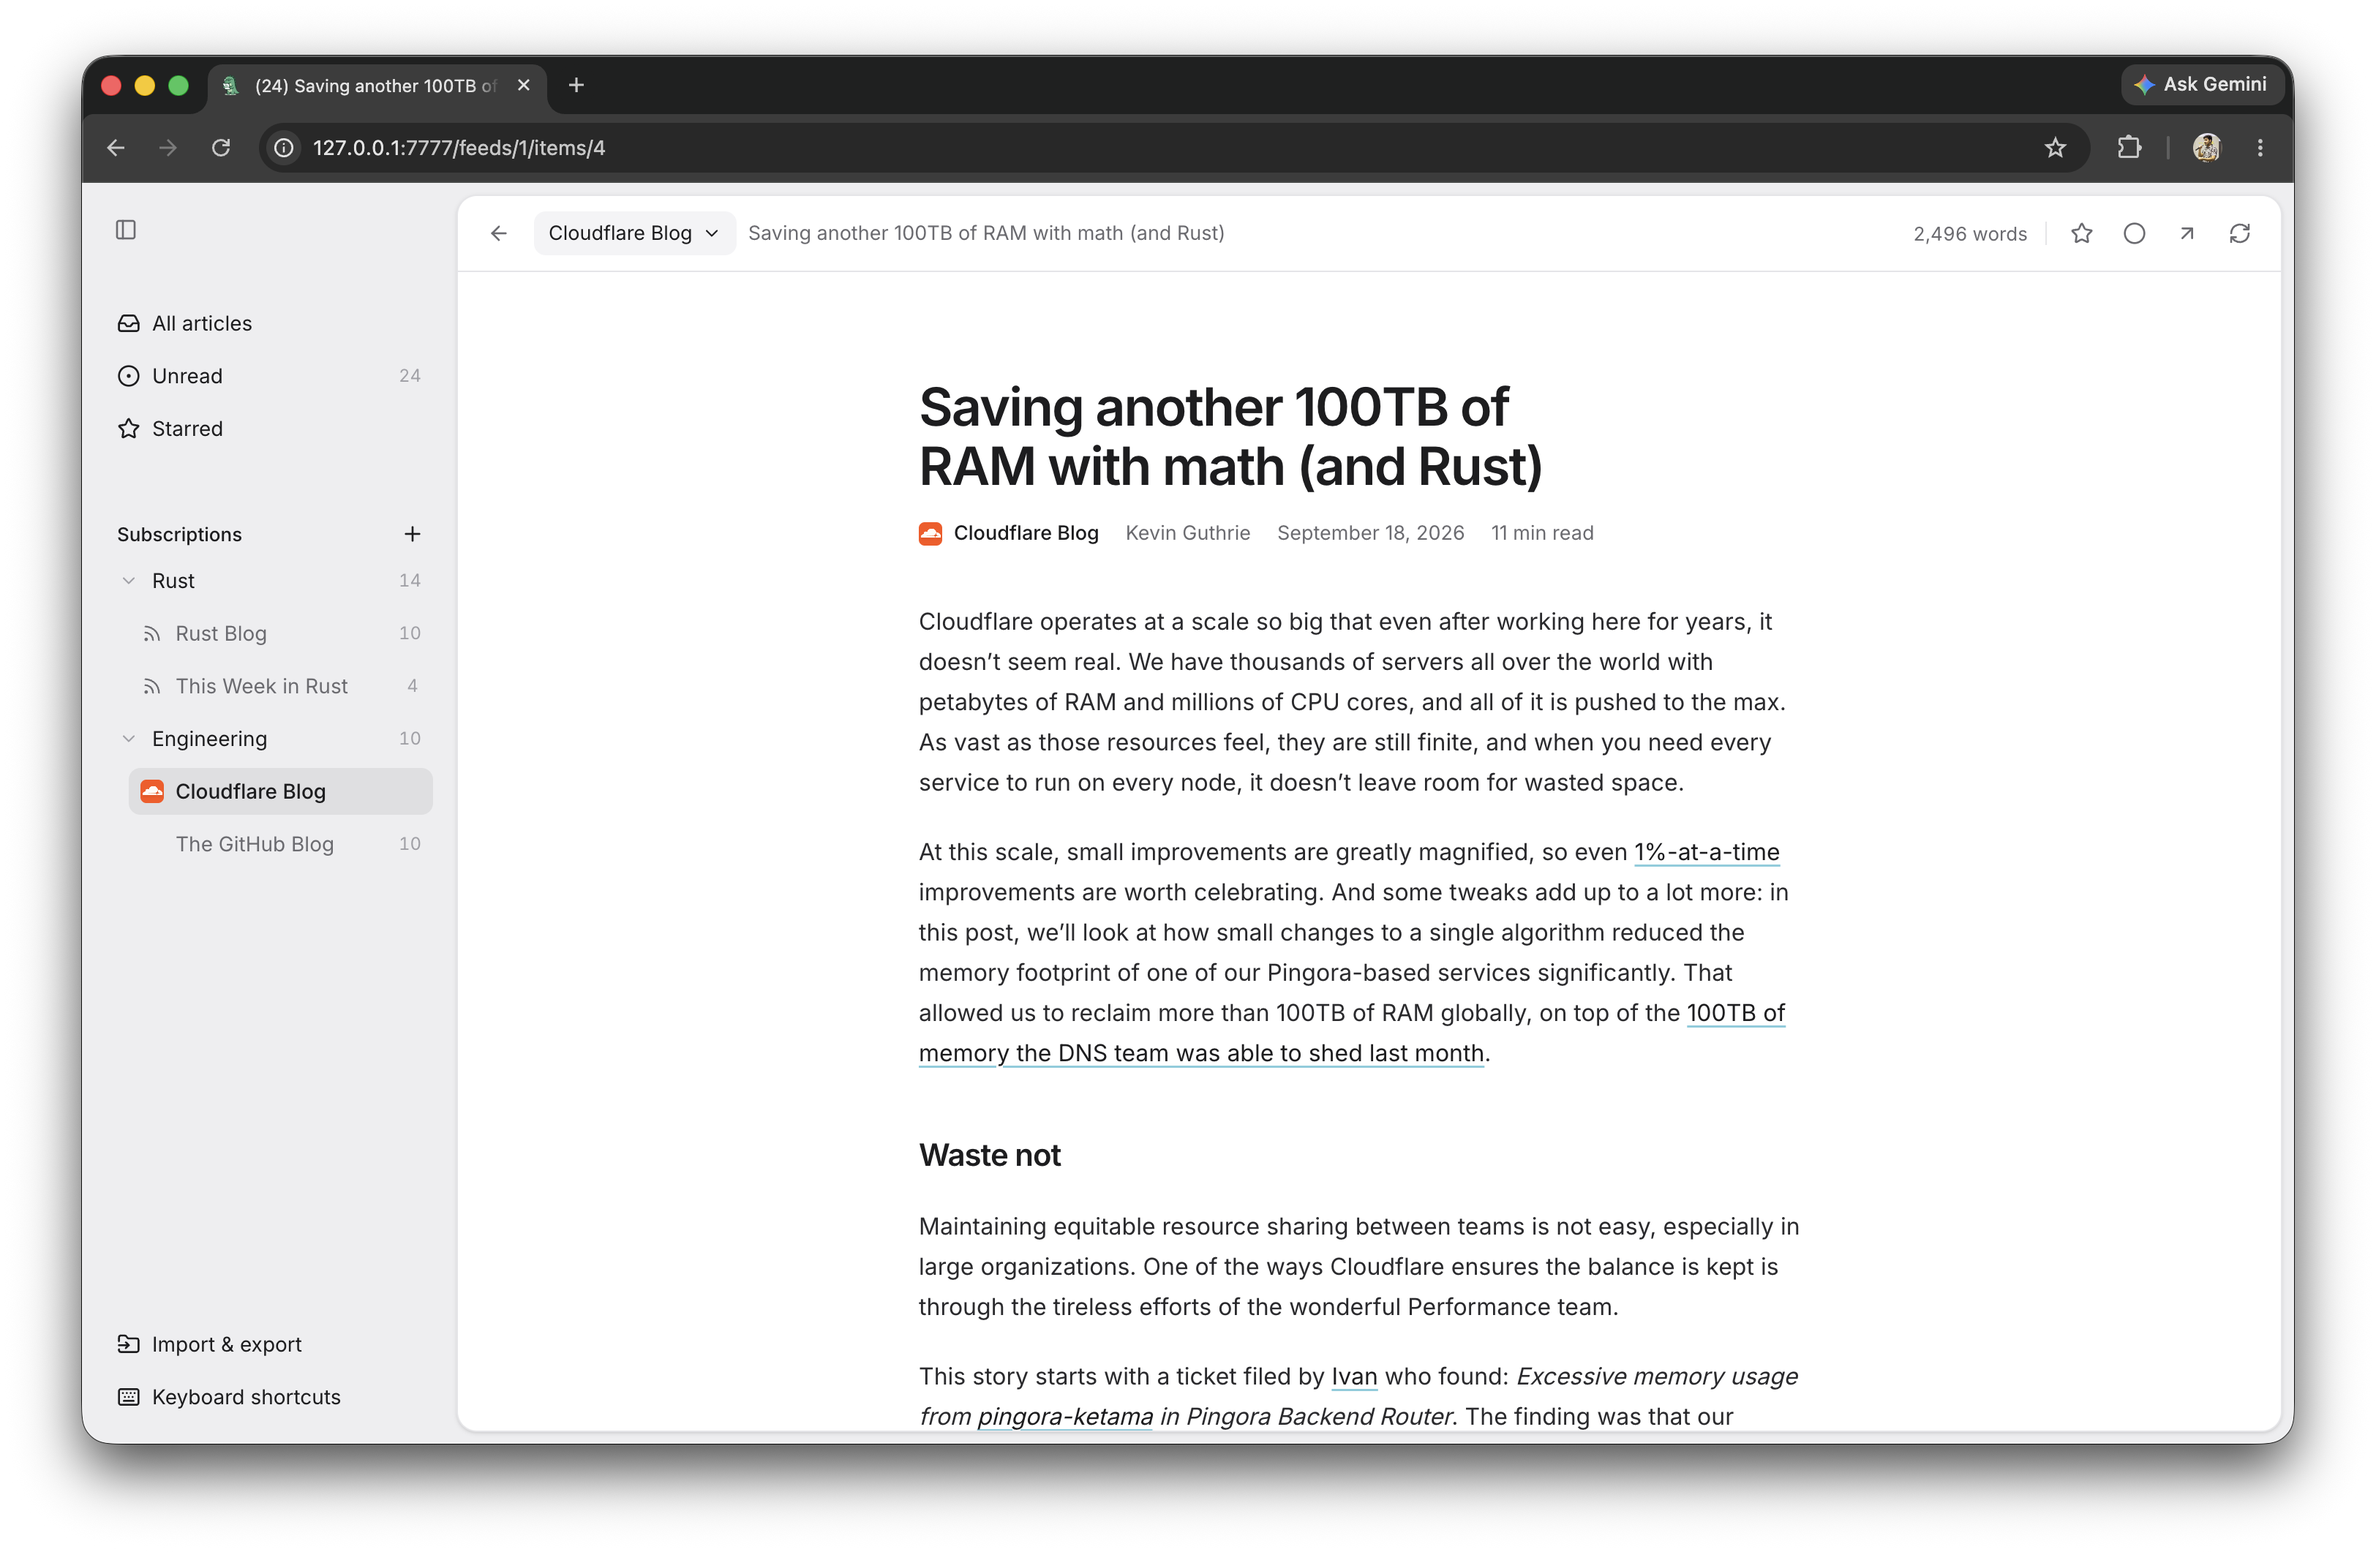
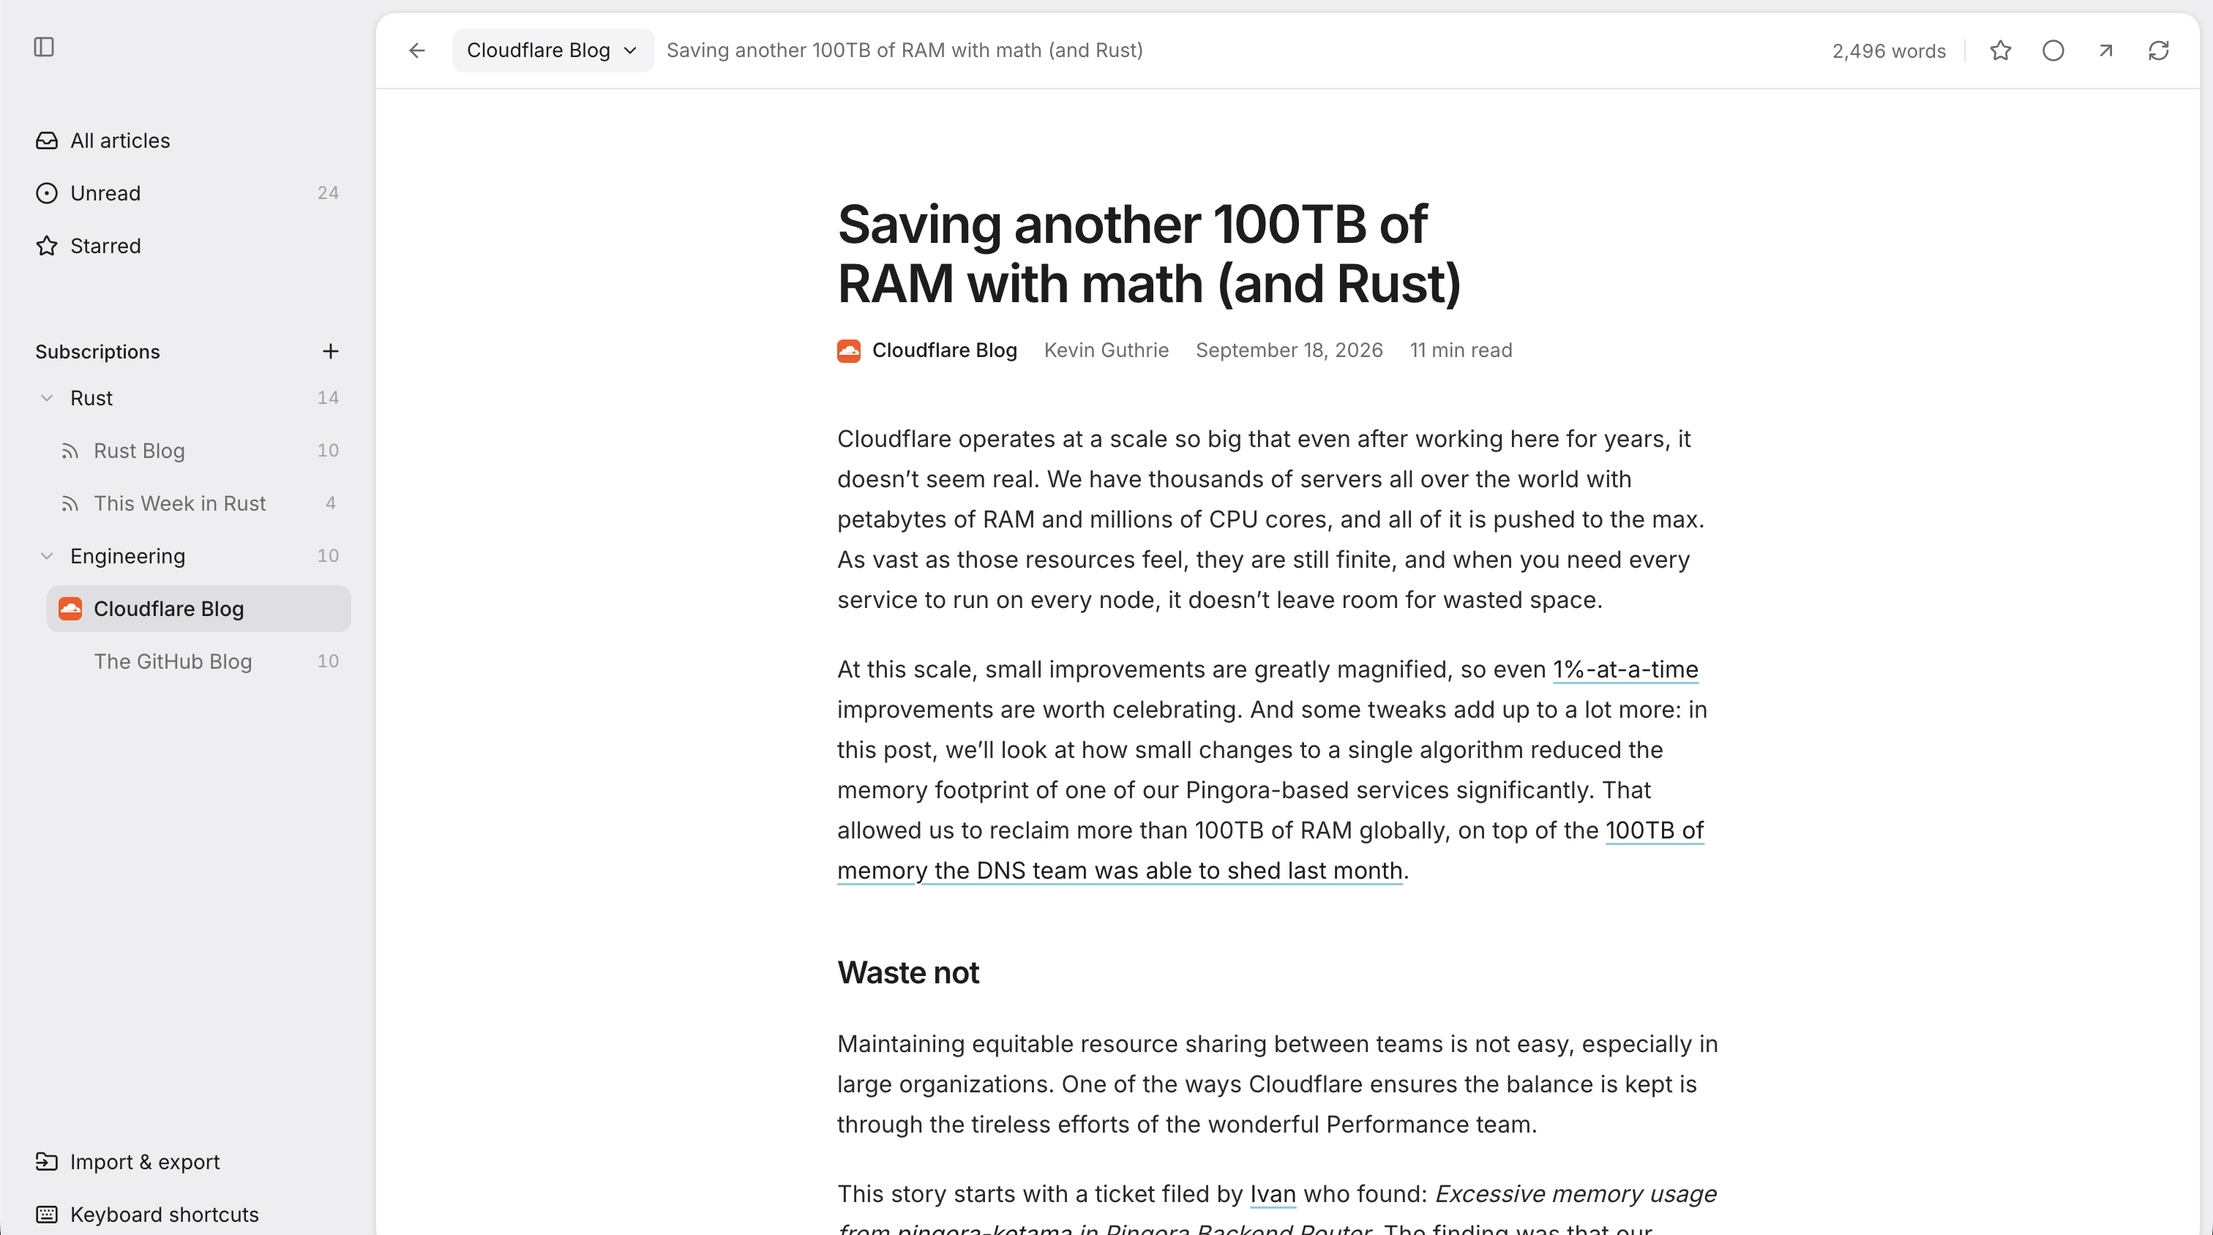
Crop the landing page screenshots to the app and add a Ko-fi button

Changed region(s): [[0.0, 0.0308, 1.0, 1.0], [0.1554, 0.4929, 0.1865, 0.5237]]

diff --git a/website/public/index.html b/website/public/index.html
@@ -108,6 +108,22 @@
         color: var(--forest);
       }
 
+      .top nav {
+        align-items: center;
+      }
+
+      .top nav .coffee {
+        padding: 6px 14px;
+        border: 1px solid var(--line);
+        border-radius: 999px;
+        background: #fff;
+        color: var(--forest);
+      }
+
+      .top nav .coffee:hover {
+        border-color: var(--green);
+      }
+
       /* Hero: the one loud moment on the page. */
 
       .hero {
@@ -188,15 +204,18 @@
 
       /* Screenshots */
 
-      /* The screenshots are window captures with their own frame and shadow, so they sit unframed. */
       .shot {
         margin: 0;
       }
 
+      /* Cropped to the app itself, so the page draws the window edge. */
       .shot img {
         display: block;
         width: 100%;
         height: auto;
+        border: 1px solid var(--line);
+        border-radius: 14px;
+        box-shadow: 0 1px 2px rgb(14 42 31 / 0.05), 0 24px 60px -24px rgb(14 42 31 / 0.25);
       }
 
       /* Features */
@@ -407,7 +426,7 @@
           font-size: 16px;
         }
 
-        .top nav a:not(:last-child) {
+        .top nav a:not(.coffee) {
           display: none;
         }
 
@@ -429,6 +448,7 @@
           <a href="#peace">Read in peace</a>
           <a href="#install">Download</a>
           <a href="https://github.com/dielduarte/feedrsauros">GitHub</a>
+          <a class="coffee" href="https://ko-fi.com/dielduarte">Buy me a coffee</a>
         </nav>
       </header>
 
@@ -454,8 +474,8 @@
           <img
             src="/screenshot-list.png"
             alt="The feedrsauros app: folders of feeds in the sidebar and the latest Rust Blog articles in the list"
-            width="3248"
-            height="2122"
+            width="3024"
+            height="1688"
           />
         </figure>
 
@@ -496,8 +516,8 @@
               <img
                 src="/screenshot-reader.png"
                 alt="An article from the Cloudflare Blog open in the feedrsauros reader"
-                width="3248"
-                height="2122"
+                width="3024"
+                height="1688"
                 loading="lazy"
               />
             </figure>
@@ -543,7 +563,7 @@ docker compose up -d</code></pre>
           <img src="/logo.svg" alt="" width="26" height="26" />
           feedrsauros
         </a>
-        <span>Open source on <a href="https://github.com/dielduarte/feedrsauros">GitHub</a>, by <a href="https://github.com/dielduarte">@dielduarte</a>.</span>
+        <span>Open source on <a href="https://github.com/dielduarte/feedrsauros">GitHub</a>, by <a href="https://github.com/dielduarte">@dielduarte</a>. Enjoying it? <a href="https://ko-fi.com/dielduarte">Buy me a coffee</a>.</span>
       </footer>
     </div>
 
